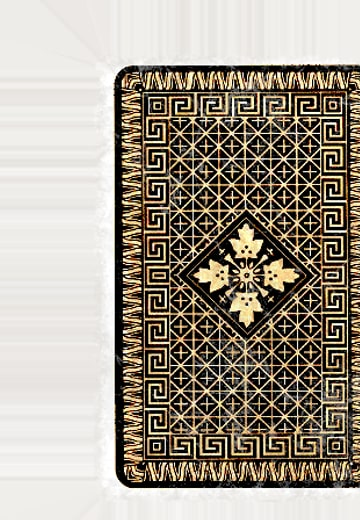
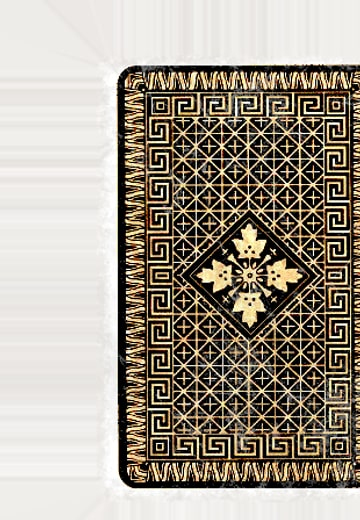
Trim Sketchfab atlas gutters so cards fill slots in play.

diff --git a/apps/web/src/components/PlayingCard.tsx b/apps/web/src/components/PlayingCard.tsx
@@ -42,12 +42,12 @@ export function PlayingCard({
       whileTap={onClick && !reducedMotion ? { scale: 0.97 } : undefined}
       className={`${w} relative shrink-0 ${onClick ? "cursor-pointer" : "cursor-default"} ${selected ? "ring-2 ring-[var(--theme-accent)] ring-offset-2 ring-offset-[var(--table-felt-base)] z-10" : ""}`}
     >
-      <div className="absolute inset-0 rounded-[0.35rem] shadow-[0_10px_28px_rgba(0,0,0,0.5),0_2px_6px_rgba(0,0,0,0.35)] overflow-hidden bg-white">
+      <div className="absolute inset-0 rounded-[0.35rem] shadow-[0_10px_28px_rgba(0,0,0,0.5),0_2px_6px_rgba(0,0,0,0.35)] overflow-hidden bg-[#f2ebe0]">
         <Image
           src={src}
           alt={showBack ? "Card back" : "Playing card"}
           fill
-          className="object-contain"
+          className="object-cover"
           sizes={small ? "56px" : "72px"}
           priority={showBack}
         />

diff --git a/apps/web/src/components/ThemeCardPreview.tsx b/apps/web/src/components/ThemeCardPreview.tsx
@@ -22,7 +22,7 @@ export function DeckCardMini({ deckId, className = "" }: Props) {
     <div
       className={`relative w-11 h-[3.9rem] rounded-[0.3rem] overflow-hidden shadow-md bg-white ${className}`}
     >
-      <Image src={deckBackSrc(deckId)} alt="" fill className="object-contain" sizes="44px" />
+      <Image src={deckBackSrc(deckId)} alt="" fill className="object-cover" sizes="44px" />
     </div>
   );
 }
@@ -48,7 +48,7 @@ export function DeckCardStrip({ deckId, className = "" }: Props) {
             }
             alt=""
             fill
-            className="object-contain"
+            className="object-cover"
             sizes="52px"
           />
         </div>

diff --git a/apps/web/src/components/DeckCardImage.tsx b/apps/web/src/components/DeckCardImage.tsx
@@ -24,8 +24,8 @@ export function DeckCardImage({
   const src = showBack ? deckBackSrc(deckId) : deckFaceSrc(deckId, card!);
 
   return (
-    <div className={`relative ${className} overflow-hidden bg-white`}>
-      <Image src={src} alt="" fill className="object-contain" sizes={sizes} />
+    <div className={`relative ${className} overflow-hidden bg-[#f2ebe0]`}>
+      <Image src={src} alt="" fill className="object-cover" sizes={sizes} />
     </div>
   );
 }
